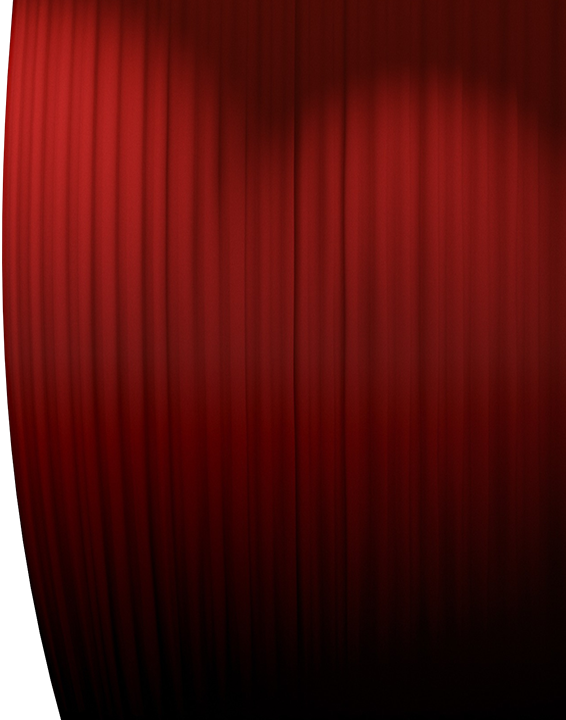
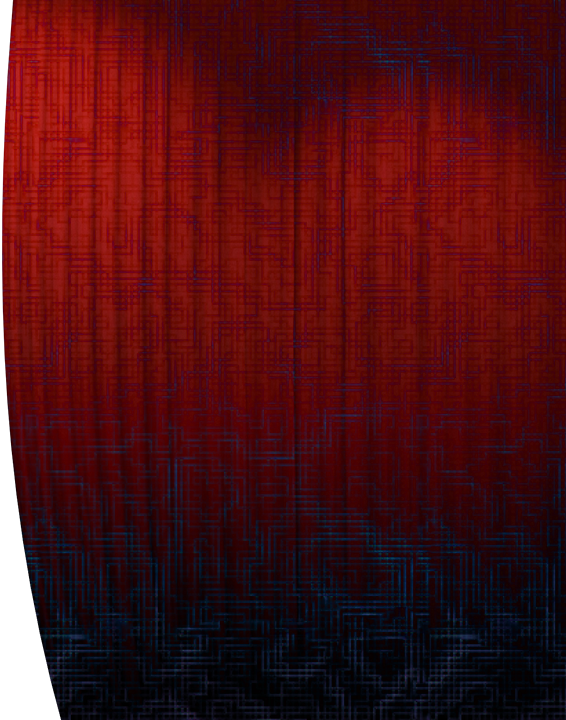
lkj

diff --git a/cinema/css/style.css b/cinema/css/style.css
@@ -7,7 +7,7 @@ html, body {
 }
 
 body {
-	background: url(http://solidstategaming.org/bg.jpg); top center no-repeat #000;
+	background: url(../images/bg.png); top center no-repeat #000;
 	color: white;
 	font-family: 'Open Sans', sans-serif;
 }
